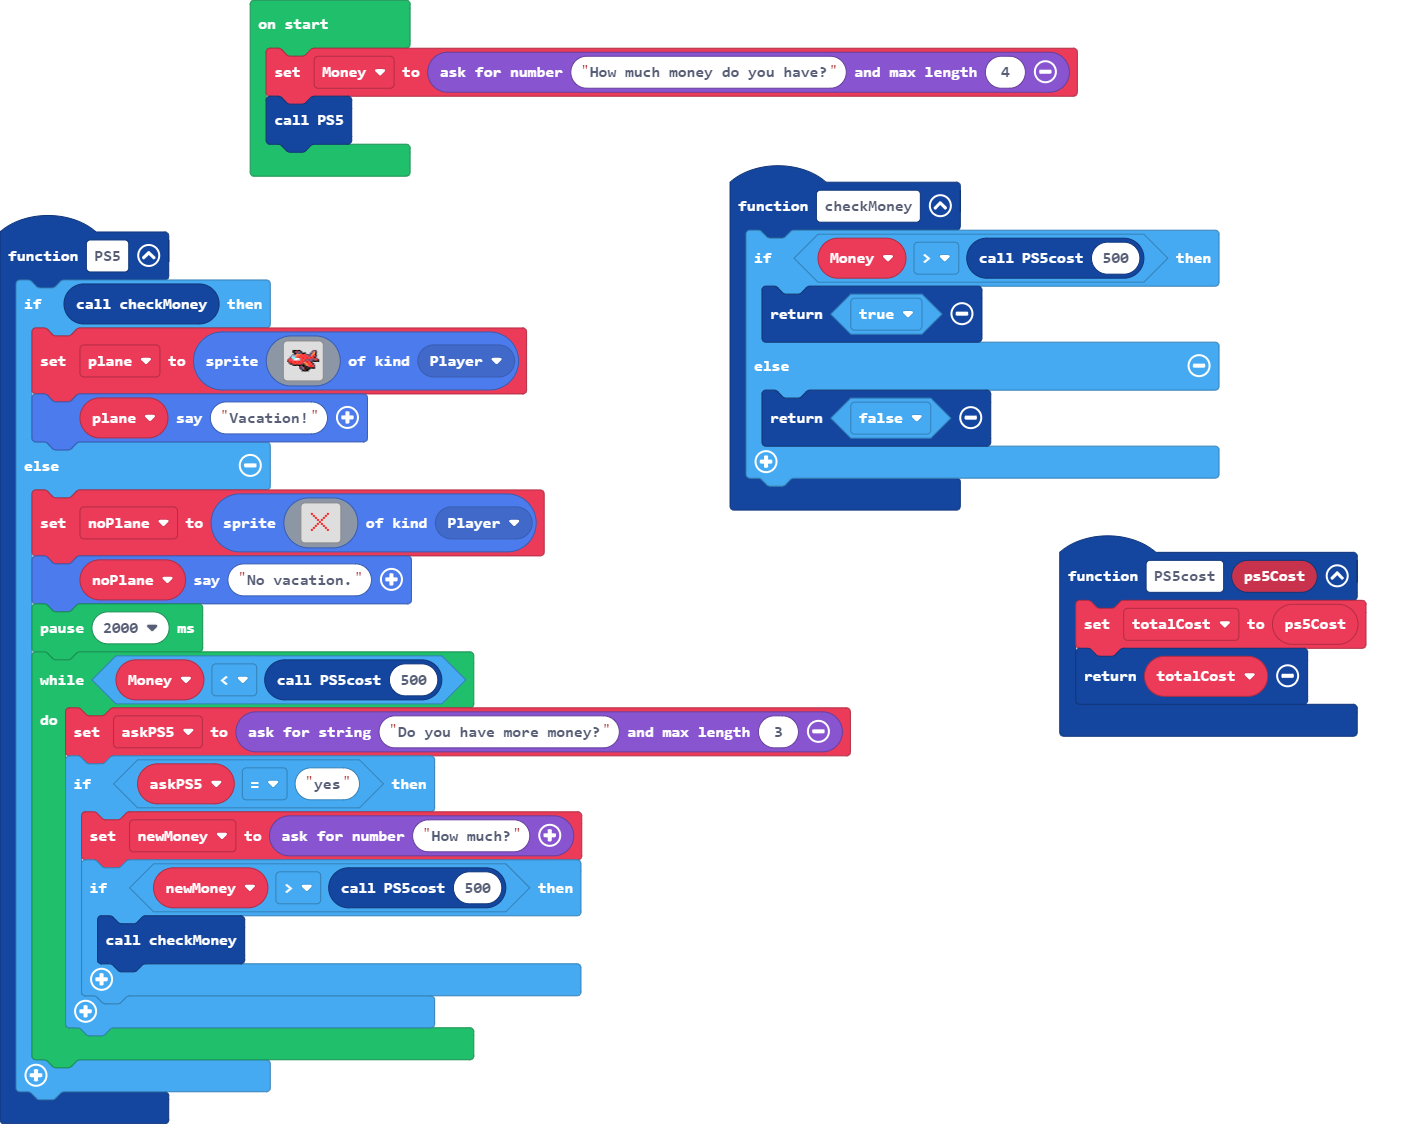
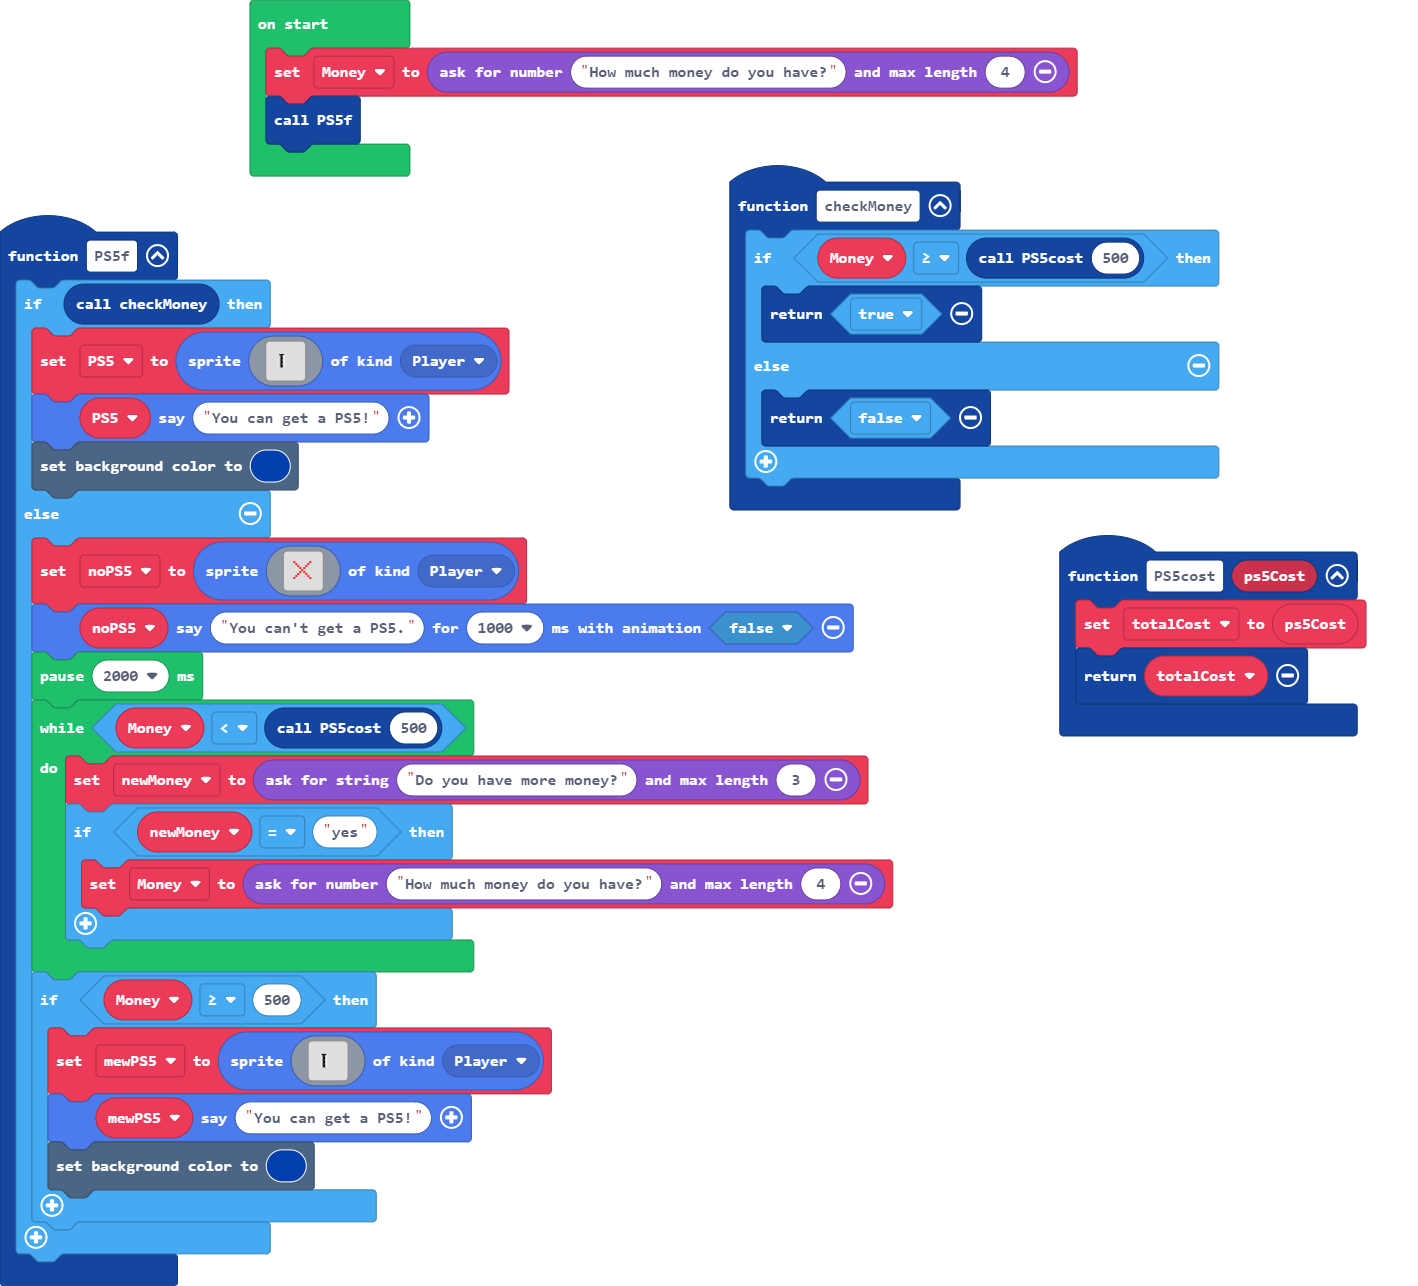
Update pxt.json, main.blocks, main.ts

diff --git a/main.ts b/main.ts
@@ -2,36 +2,30 @@ function PS5cost (ps5Cost: number) {
     totalCost = ps5Cost
     return totalCost
 }
-function checkMoney () {
-    if (Money > PS5cost(500)) {
-        return true
-    } else {
-        return false
-    }
-}
-function PS5 () {
+function PS5f () {
     if (checkMoney()) {
-        plane = sprites.create(img`
-            ....ffffff.........ccc..
-            ....ff22ccf.......cc4f..
-            .....ffccccfff...cc44f..
-            ....cc24442222cccc442f..
-            ...c9b4422222222cc422f..
-            ..c999b2222222222222fc..
-            .c2b99111b222222222c22c.
-            c222b111992222ccccccc22f
-            f222222222222c222ccfffff
-            .f2222222222442222f.....
-            ..ff2222222cf442222f....
-            ....ffffffffff442222c...
-            .........f2cfffc2222c...
-            .........fcc2ffffffff...
-            ..........fc2ffff.......
-            ...........fffff........
+        PS5 = sprites.create(img`
+            ........................
+            ........................
+            ........................
+            ......1ffff1............
+            .......1ff1.............
+            .......1ff1.............
+            .......1ff1.............
+            .......1ff1.............
+            .......1ff1.............
+            .......1ff1.............
+            .......1ff1.............
+            .......1ff1.............
+            .......1ff1.............
+            ........................
+            ........................
+            ........................
             `, SpriteKind.Player)
-        plane.sayText("Vacation!")
+        PS5.sayText("You can get a PS5!")
+        scene.setBackgroundColor(8)
     } else {
-        noPlane = sprites.create(img`
+        noPS5 = sprites.create(img`
             . . . . . . . . . . . . . . . . 
             . . . . . . . . . . . . . . . . 
             . . . . . . . . . . . . . . . . 
@@ -49,24 +43,50 @@ function PS5 () {
             . . . . . . . . . . . . . . . . 
             . . . . . . . . . . . . . . . . 
             `, SpriteKind.Player)
-        noPlane.sayText("No vacation.")
+        noPS5.sayText("You can't get a PS5.", 1000, false)
         pause(2000)
         while (Money < PS5cost(500)) {
-            askPS5 = game.askForString("Do you have more money?", 3)
-            if (askPS5 == "yes") {
-                newMoney = game.askForNumber("How much?")
-                if (newMoney > PS5cost(500)) {
-                    checkMoney()
-                }
+            newMoney = game.askForString("Do you have more money?", 3)
+            if (newMoney == "yes") {
+                Money = game.askForNumber("How much money do you have?", 4)
             }
+        }
+        if (Money >= 500) {
+            mewPS5 = sprites.create(img`
+                ........................
+                ........................
+                ........................
+                ......1ffff1............
+                .......1ff1.............
+                .......1ff1.............
+                .......1ff1.............
+                .......1ff1.............
+                .......1ff1.............
+                .......1ff1.............
+                .......1ff1.............
+                .......1ff1.............
+                .......1ff1.............
+                ........................
+                ........................
+                ........................
+                `, SpriteKind.Player)
+            mewPS5.sayText("You can get a PS5!")
+            scene.setBackgroundColor(8)
         }
     }
 }
-let newMoney = 0
-let askPS5 = ""
-let noPlane: Sprite = null
-let plane: Sprite = null
+function checkMoney () {
+    if (Money >= PS5cost(500)) {
+        return true
+    } else {
+        return false
+    }
+}
+let mewPS5: Sprite = null
+let newMoney = ""
+let noPS5: Sprite = null
+let PS5: Sprite = null
 let totalCost = 0
 let Money = 0
 Money = game.askForNumber("How much money do you have?", 4)
-PS5()
+PS5f()
